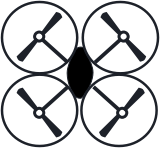
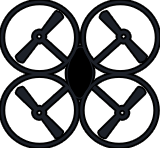
Add drone animations

Changed region(s): [[0.0, 0.0, 1.0, 1.0]]

diff --git a/js/scripts.js b/js/scripts.js
@@ -1,18 +1,93 @@
+
+function drawDrones() {
+    var i,
+        fn,
+        body = $('body'),
+        angle = 0.0,
+        drone;
+    for (i = 0; i < 4; i++) {
+        drone = $('#dummy-drone').clone();
+        drone.attr('id', 'drone-' + (i + 1));
+        body.append(drone);
+        drone.show();
+    }
+    fn = function() {
+        $('.drone').css({
+            transform: 'scale(0.50) ' +
+                'rotate(' + angle + 'deg)'
+        });
+        angle += 0.3;
+        requestAnimationFrame(fn);
+    };
+    fn();
+}
+
+function animateGirl() {
+    $('.girl-img').animate({
+        "padding-left": 12
+    }, {
+        duration: 790,
+        complete: function() {
+            $('.girl-img').animate({
+                "padding-left": 0
+            }, {
+                duration: 790,
+                complete: animateGirl
+            });
+        }
+    });
+}
+
+function animateDroneIcon() {
+    $('.drone-top-img').animate({
+        "padding-left": 25,
+        "padding-top": 12
+    }, {
+        duration: 1000,
+        complete: function() {
+            $('.drone-top-img').animate({
+                "padding-left": 0,
+                "padding-top": 0
+            }, {
+                duration: 1000,
+                complete: animateDroneIcon
+            });
+        }
+    });
+}
+
+function animateLogo() {
+    var i,
+        fn,
+        angle = 0.0;
+    fn = function() {
+        $('.loading').css({
+            transform: 'translate(-50%, -50%) ' +
+                'rotate(' + angle + 'deg)'
+        });
+        angle += 1.0;
+        if (window.animating) {
+            requestAnimationFrame(fn);
+        }
+    };
+    window.animating = true;
+    fn();
+}
+
 $(document).ready(function(){
-	$(".onboarding-1").hide();
-    $(".onboarding-2").hide();
-    $(".onboarding-3").hide();
-    $(".onboarding-4").hide();
-    $(".confirmation").hide();
-    $(".home").hide();
     $(".loading").show();
+
+    animateLogo();
 
     $(".loading").on( "click", function() {
         $(".onboarding-1").show();
         $(this).hide();
+        window.animating = false;
     });
 
     $(".get-started-btn").on("click", function() {
+        animateDroneIcon();
+        animateGirl();
         $(".onboarding-2").show();
         $(".onboarding-1").hide();
     });
@@ -35,10 +110,11 @@ $(document).ready(function(){
     $(".pbar-3").on("click", function() {
         $(".onboarding-4").hide();
         $(".home").show();
+        drawDrones();
     });
 
     $(".send-scout").on("click", function() {
-        $(".confirmation").show();
+        $('.confirmation').show();
     });
 
     $(".confirmation").on("click", function() {

diff --git a/style.css b/style.css
@@ -22,7 +22,16 @@ body {
    	background-size:contain;
 	color: white;
 	position: absolute;
+	display: none;
 	z-index: 1;
+}
+
+.onboarding-2 {
+	display: none;
+}
+
+.onboarding-4 {
+	display: none;
 }
 
 .trans-bg {
@@ -73,12 +82,20 @@ body {
 	padding-right: 50px;
 }
 
+
+.drone-top-img {
+	margin-bottom: 0;
+	transform: scale(2);
+	position: absolute;
+	left: 458px;
+	top: 558px;
+}
+
 .girl-img {
+	margin-top: 600px;
 	width: 280px;
-	height: 476px;
-	margin-top: 450px;
-	/*margin-left: 400px;*/
-	margin-bottom:100px;
+	height: 400px;
+	margin-bottom: 100px;
 	display: block;
 	margin-left: auto;
 	margin-right: auto;
@@ -156,6 +173,7 @@ body {
 	color: white;
 	position: absolute;
 	z-index: 1;
+	display: none;
 }
 
 .bg-3 {
@@ -305,6 +323,7 @@ body {
 
 .home {
 	position: absolute;
+    display: none;
 }
 
 /*.confirmation {
@@ -321,7 +340,6 @@ body {
 
 
 .confirmation {
-	display: block;
 	margin-left: auto;
 	margin-right: auto;
 	z-index: 12;
@@ -334,9 +352,32 @@ body {
 	width: 972px;
 	height: 550px;
 	top: 35%;
-
+    display: none;
 }
 
+#dummy-drone {
+    display: none;
+}
+
+#drone-1 {
+    left: 15px;
+    top: 273px;
+}
+
+#drone-2 {
+    left: 155px;
+    top: 632px;
+}
+
+#drone-3 {
+    left: 785px;
+    top: 55px;
+}
+
+#drone-4 {
+    left: 765px;
+    top: 855px;
+}
 
 .popup {
 	display: block;
@@ -351,4 +392,10 @@ body {
 	float: right;
 	padding-top: 20px;
 	padding-right: 50px;
+}
+
+.drone {
+    position: absolute;
+    transform: scale(0.50);
+    z-index: 6;
 }

diff --git a/index.html b/index.html
@@ -28,6 +28,7 @@
 
 		<div class="onboarding-2">
 			<div class="white-bg">
+				<img class="drone-top-img" src="assets/drone-top.png" alt="hovering drone">
 				<img class="girl-img" src="assets/girl.png" alt="scout girl">
 				<div class="title-blk">Create Account <br> Log in with:</div>
 				<button class="gmail-btn" type="button">Gmail</button>
@@ -95,7 +96,8 @@
 			<!-- <div class="eta">ETA 2 min.</div> -->
 		</div>
 
-
-
+		<div id="dummy-drone" class="drone">
+			<img class="confim" src="assets/confirmation.png" alt="drone">
+		</div>
 </body>
 </html>
